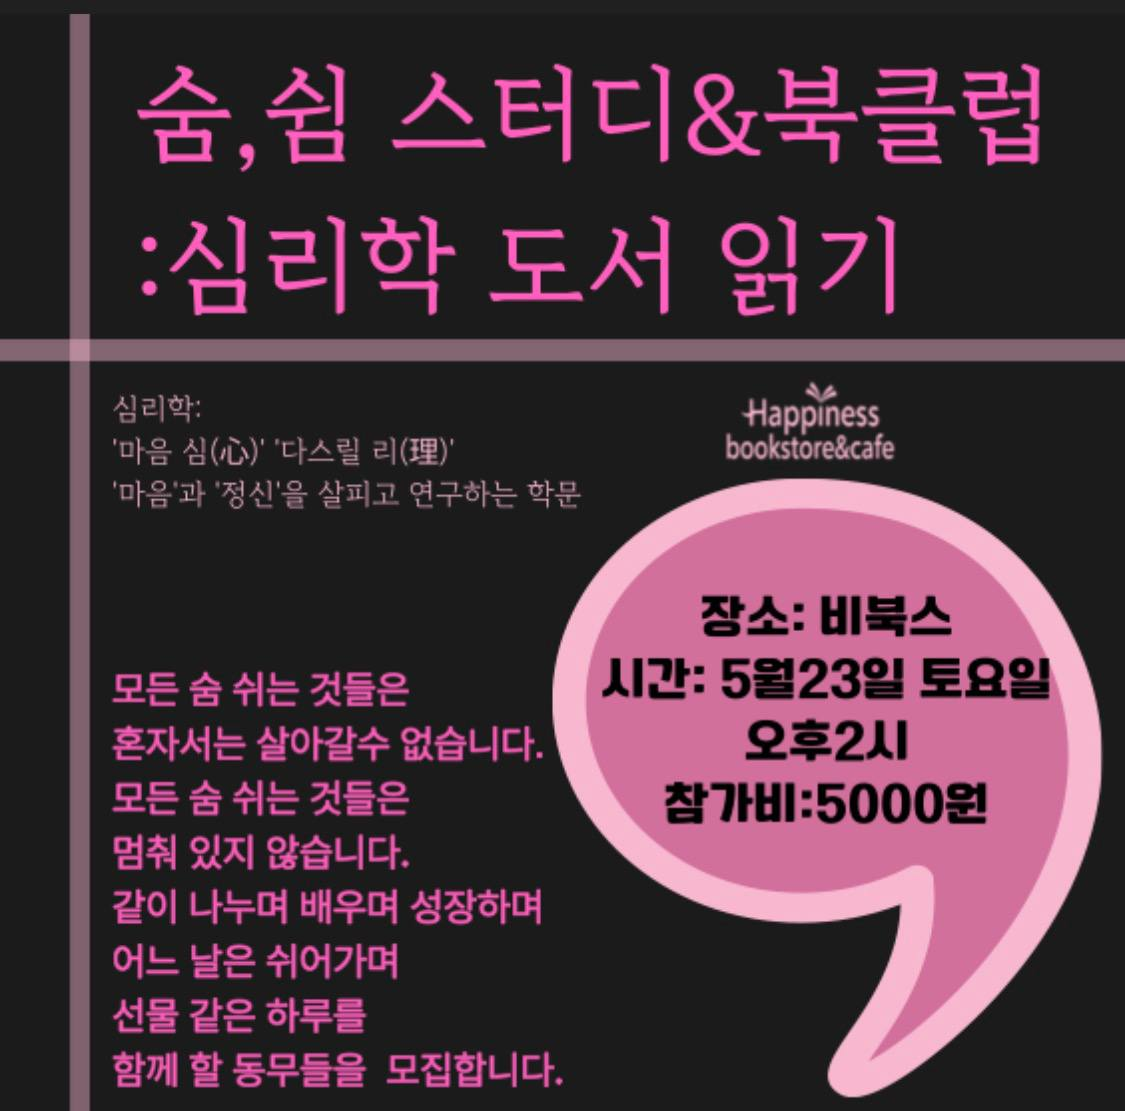
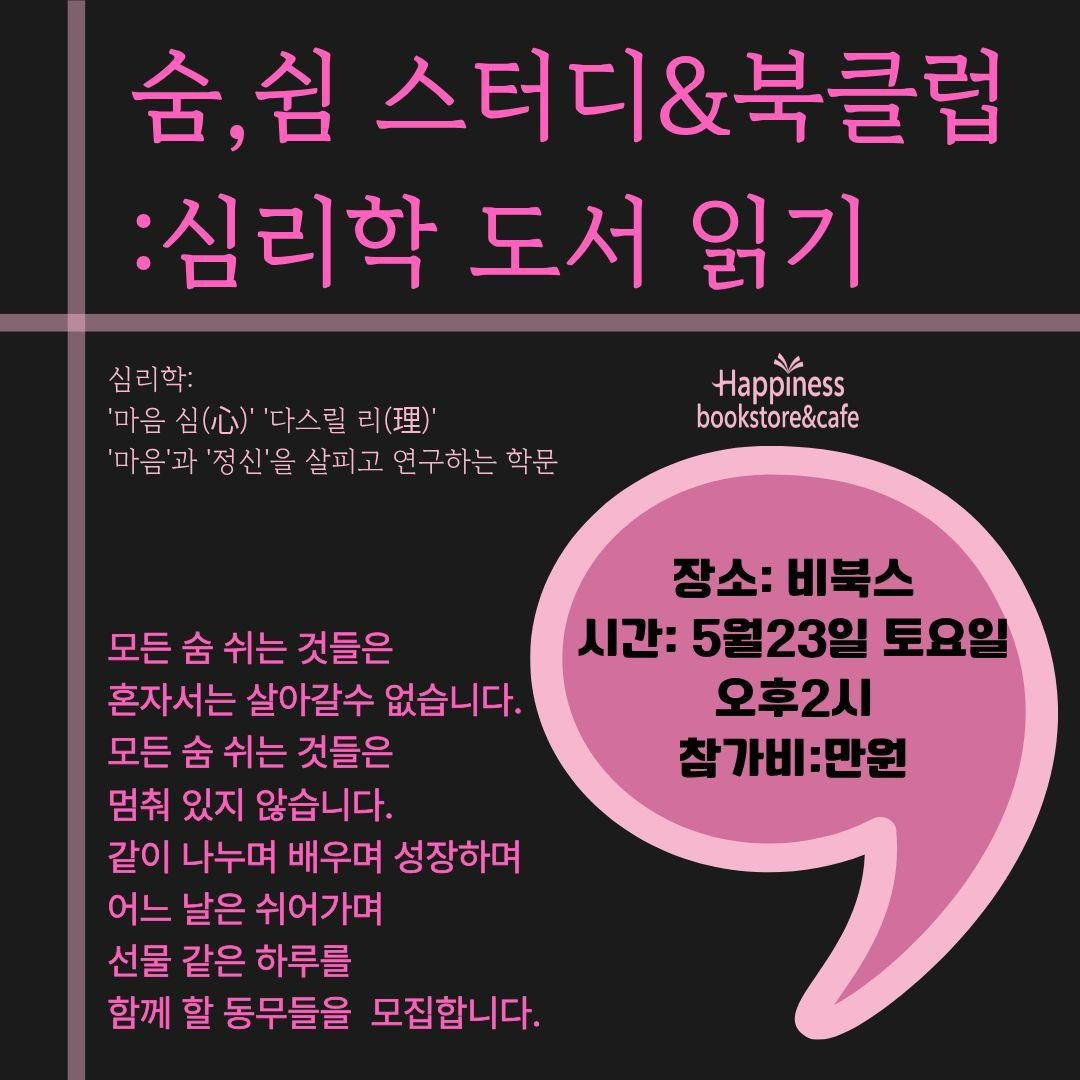
해피니스북스토어: 포스터 이미지 교체 + 회비 10,000원으로 수정

diff --git a/index.html b/index.html
@@ -297,7 +297,7 @@
             </div>
           </div>
           <div class="card-footer-row">
-            <span class="fee-tag">₩5,000</span>
+            <span class="fee-tag">₩10,000</span>
             <a href="https://forms.gle/uoTLg9tv8wX5LP8p8" target="_blank" class="apply-btn" rel="noopener">신청하기 →</a>
           </div>
         </div>